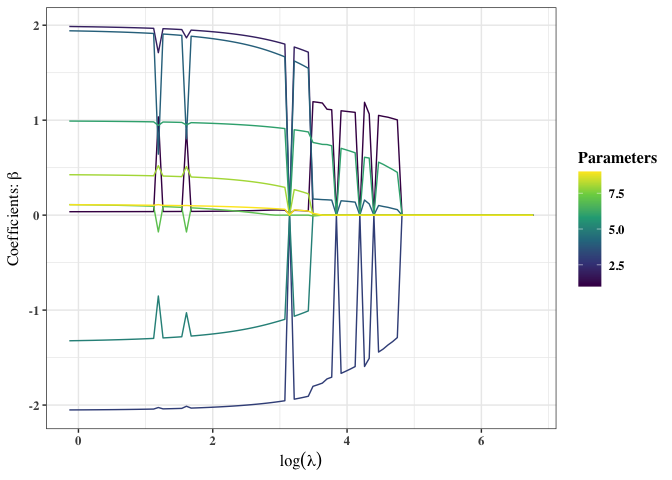
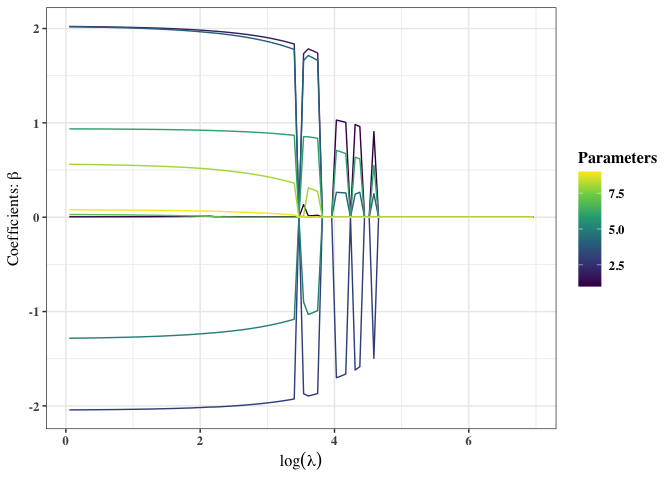
v3

diff --git a/README.md b/README.md
@@ -89,7 +89,7 @@ betas <- matrix(c(
   -3, 0,  2, 0      # component 3
 ), nrow = G, byrow = TRUE)
 pis <- c(0.4, 0.4, 0.2)
-sigmas <- c(3, 1.5, 1)
+sigmas <- c(3, 1.5, 1)/2
 
 # ----Generate correlation matrix----
 cor_mat <- outer(1:p, 1:p, function(i, j) rho^abs(i - j))
@@ -128,18 +128,18 @@ mod <- FGMRM(x = X, y = y, G = 6)
 #> 
 #>  selected model for g = 2 
 #> 
-#>  lambda = 50.85 || alpha = 1 || BIC = 2713.28 
+#>  lambda = 2.4 || alpha = 1 || BIC = 2393.64 
 #> 
 #>  Components     1      2
-#>  Pi           0.563  0.437
-#>  Sigma        3.537  1.306
+#>  Pi           0.562  0.438
+#>  Sigma        2.921  0.648
 #> 
 #>  Beta (Regression Parameters)
 #>   Components     1      2
-#>   Intercept   -0.598  5.234
-#>   Beta 1       1.082 -1.748
-#>   Beta 2       0.098  0.748
-#>   Beta 3       0.000  0.000
+#>   Intercept   -0.449  5.075
+#>   Beta 1       1.193 -1.991
+#>   Beta 2       0.236  0.932
+#>   Beta 3       0.000  0.093
 #> 
 #> 
 #> -- g = 3 --
@@ -147,18 +147,18 @@ mod <- FGMRM(x = X, y = y, G = 6)
 #> 
 #>  selected model for g = 3 
 #> 
-#>  lambda = 0.87 || alpha = 0.7 || BIC = 2671.6 
+#>  lambda = 1.05 || alpha = 0.5 || BIC = 2176.36 
 #> 
 #>  Components     1      2      3
-#>  Pi           0.152  0.405  0.444
-#>  Sigma        0.842  2.931  1.297
+#>  Pi           0.186  0.367  0.447
+#>  Sigma        0.490  1.460  0.668
 #> 
 #>  Beta (Regression Parameters)
 #>   Components     1      2      3
-#>   Intercept   -3.331  0.793  5.081
-#>   Beta 1       0.036  1.987 -2.051
-#>   Beta 2       1.941 -1.323  0.991
-#>   Beta 3       0.111  0.426  0.109
+#>   Intercept   -3.045  1.087  5.024
+#>   Beta 1       0.004  2.022 -2.043
+#>   Beta 2       2.019 -1.283  0.936
+#>   Beta 3       0.029  0.561  0.079
 #> 
 #> 
 #> -- g = 4 --
@@ -166,18 +166,18 @@ mod <- FGMRM(x = X, y = y, G = 6)
 #> 
 #>  selected model for g = 4 
 #> 
-#>  lambda = 40.77 || alpha = 0.7 || BIC = 2736.61 
+#>  lambda = 8.58 || alpha = 1 || BIC = 2182.4 
 #> 
 #>  Components     1      2      3      4
-#>  Pi           0.526  0.032  0.017  0.425
-#>  Sigma        3.456  0.422  0.053  1.288
+#>  Pi           0.187  0.343  0.018  0.452
+#>  Sigma        0.495  1.397  0.466  0.683
 #> 
 #>  Beta (Regression Parameters)
 #>   Components     1      2      3      4
-#>   Intercept   -0.874  1.986  4.830  5.278
-#>   Beta 1       1.181  0.000  0.000 -1.746
-#>   Beta 2       0.164  0.000  0.000  0.750
-#>   Beta 3       0.000  0.000  0.000  0.000
+#>   Intercept   -3.059  1.046  1.230  5.023
+#>   Beta 1       0.000  2.091  0.000 -2.009
+#>   Beta 2       1.969 -1.284  0.000  0.914
+#>   Beta 3       0.000  0.526  0.000  0.047
 #> 
 #> 
 #> -- g = 5 --
@@ -185,18 +185,18 @@ mod <- FGMRM(x = X, y = y, G = 6)
 #> 
 #>  selected model for g = 5 
 #> 
-#>  lambda = 5.01 || alpha = 0.9 || BIC = 2692.74 
+#>  lambda = 7.19 || alpha = 1 || BIC = 2196.65 
 #> 
 #>  Components     1      2      3      4      5
-#>  Pi           0.154  0.373  0.025  0.024  0.425
-#>  Sigma        0.845  2.861  0.387  0.096  1.271
+#>  Pi           0.187  0.343  0.020  0.008  0.441
+#>  Sigma        0.497  1.381  0.472  0.123  0.650
 #> 
 #>  Beta (Regression Parameters)
 #>   Components     1      2      3      4      5
-#>   Intercept   -3.341  0.611  1.947  4.811  5.124
-#>   Beta 1       0.022  2.161  0.000  0.000 -2.061
-#>   Beta 2       1.907 -1.361  0.000  0.000  0.999
-#>   Beta 3       0.074  0.408  0.000  0.000  0.104
+#>   Intercept   -3.053  1.039  1.253  4.064  5.047
+#>   Beta 1       0.000  2.106  0.000  0.000 -2.017
+#>   Beta 2       1.980 -1.288  0.000  0.000  0.925
+#>   Beta 3       0.000  0.536  0.000  0.000  0.056
 #> 
 #> 
 #> -- g = 6 --
@@ -204,18 +204,18 @@ mod <- FGMRM(x = X, y = y, G = 6)
 #> 
 #>  selected model for g = 6 
 #> 
-#>  lambda = 20.51 || alpha = 1 || BIC = 2704.4 
+#>  lambda = 6.41 || alpha = 1 || BIC = 2214.97 
 #> 
 #>  Components     1      2      3      4      5      6
-#>  Pi           0.148  0.017  0.070  0.023  0.310  0.433
-#>  Sigma        0.860  0.222  1.128  0.092  2.978  1.279
+#>  Pi           0.187  0.343  0.020  0.004  0.004  0.441
+#>  Sigma        0.497  1.380  0.472  0.121  0.125  0.649
 #> 
 #>  Beta (Regression Parameters)
 #>   Components     1      2      3      4      5      6
-#>   Intercept   -3.476 -1.947  1.270  4.813  0.506  5.166
-#>   Beta 1       0.000  0.000  0.000  0.000  2.238 -1.957
-#>   Beta 2       1.724  0.000  0.000  0.000 -1.291  0.922
-#>   Beta 3       0.000  0.000  0.000  0.000  0.309  0.056
+#>   Intercept   -3.051  1.040  1.252  4.059  4.069  5.047
+#>   Beta 1       0.000  2.111  0.000  0.000  0.000 -2.020
+#>   Beta 2       1.985 -1.293  0.000  0.000  0.000  0.927
+#>   Beta 3       0.000  0.541  0.000  0.000  0.000  0.059
 #> 
 #> -------------------------------------------------------------------------------- 
 #> 
@@ -223,18 +223,18 @@ mod <- FGMRM(x = X, y = y, G = 6)
 #> 
 #>  G = 3 
 #> 
-#>  lambda = 0.87 || alpha = 0.7 || log-likelihood = -1282.97 || BIC = 2671.6 || MSE = 2.84 
+#>  lambda = 1.05 || alpha = 0.5 || log-likelihood = -1035.35 || BIC = 2176.36 || MSE = 0.69 
 #> 
 #>  Components     1      2      3
-#>  Pi           0.152  0.405  0.444
-#>  Sigma        0.842  2.931  1.297
+#>  Pi           0.186  0.367  0.447
+#>  Sigma        0.490  1.460  0.668
 #> 
 #>  Beta (Regression Parameters)
 #>   Components     1      2      3
-#>   Intercept   -3.331  0.793  5.081
-#>   Beta 1       0.036  1.987 -2.051
-#>   Beta 2       1.941 -1.323  0.991
-#>   Beta 3       0.111  0.426  0.109
+#>   Intercept   -3.045  1.087  5.024
+#>   Beta 1       0.004  2.022 -2.043
+#>   Beta 2       2.019 -1.283  0.936
+#>   Beta 3       0.029  0.561  0.079
 #> 
 #> --------------------------------------------------------------------------------
 ```
@@ -308,17 +308,17 @@ summary(mod)
 #> 
 #>  G = 3 
 #> 
-#>  lambda = 0.87 || alpha = 0.7 || log-likelihood = -1282.97 || BIC = 2671.6 || MSE = 2.84 
+#>  lambda = 1.05 || alpha = 0.5 || log-likelihood = -1035.35 || BIC = 2176.36 || MSE = 0.69 
 #> 
 #>  Components     1      2      3
-#>  Pi           0.152  0.405  0.444
-#>  Clusters        88    166    246
-#>  Sigma        0.842  2.931  1.297
+#>  Pi           0.186  0.367  0.447
+#>  Clusters        99    160    241
+#>  Sigma        0.490  1.460  0.668
 #> 
 #>  Beta (Regression Parameters)
 #>   Components     1      2      3
-#>   Intercept   -3.331  0.793  5.081
-#>   Beta 1       0.036  1.987 -2.051
-#>   Beta 2       1.941 -1.323  0.991
-#>   Beta 3       0.111  0.426  0.109
+#>   Intercept   -3.045  1.087  5.024
+#>   Beta 1       0.004  2.022 -2.043
+#>   Beta 2       2.019 -1.283  0.936
+#>   Beta 3       0.029  0.561  0.079
 ```
